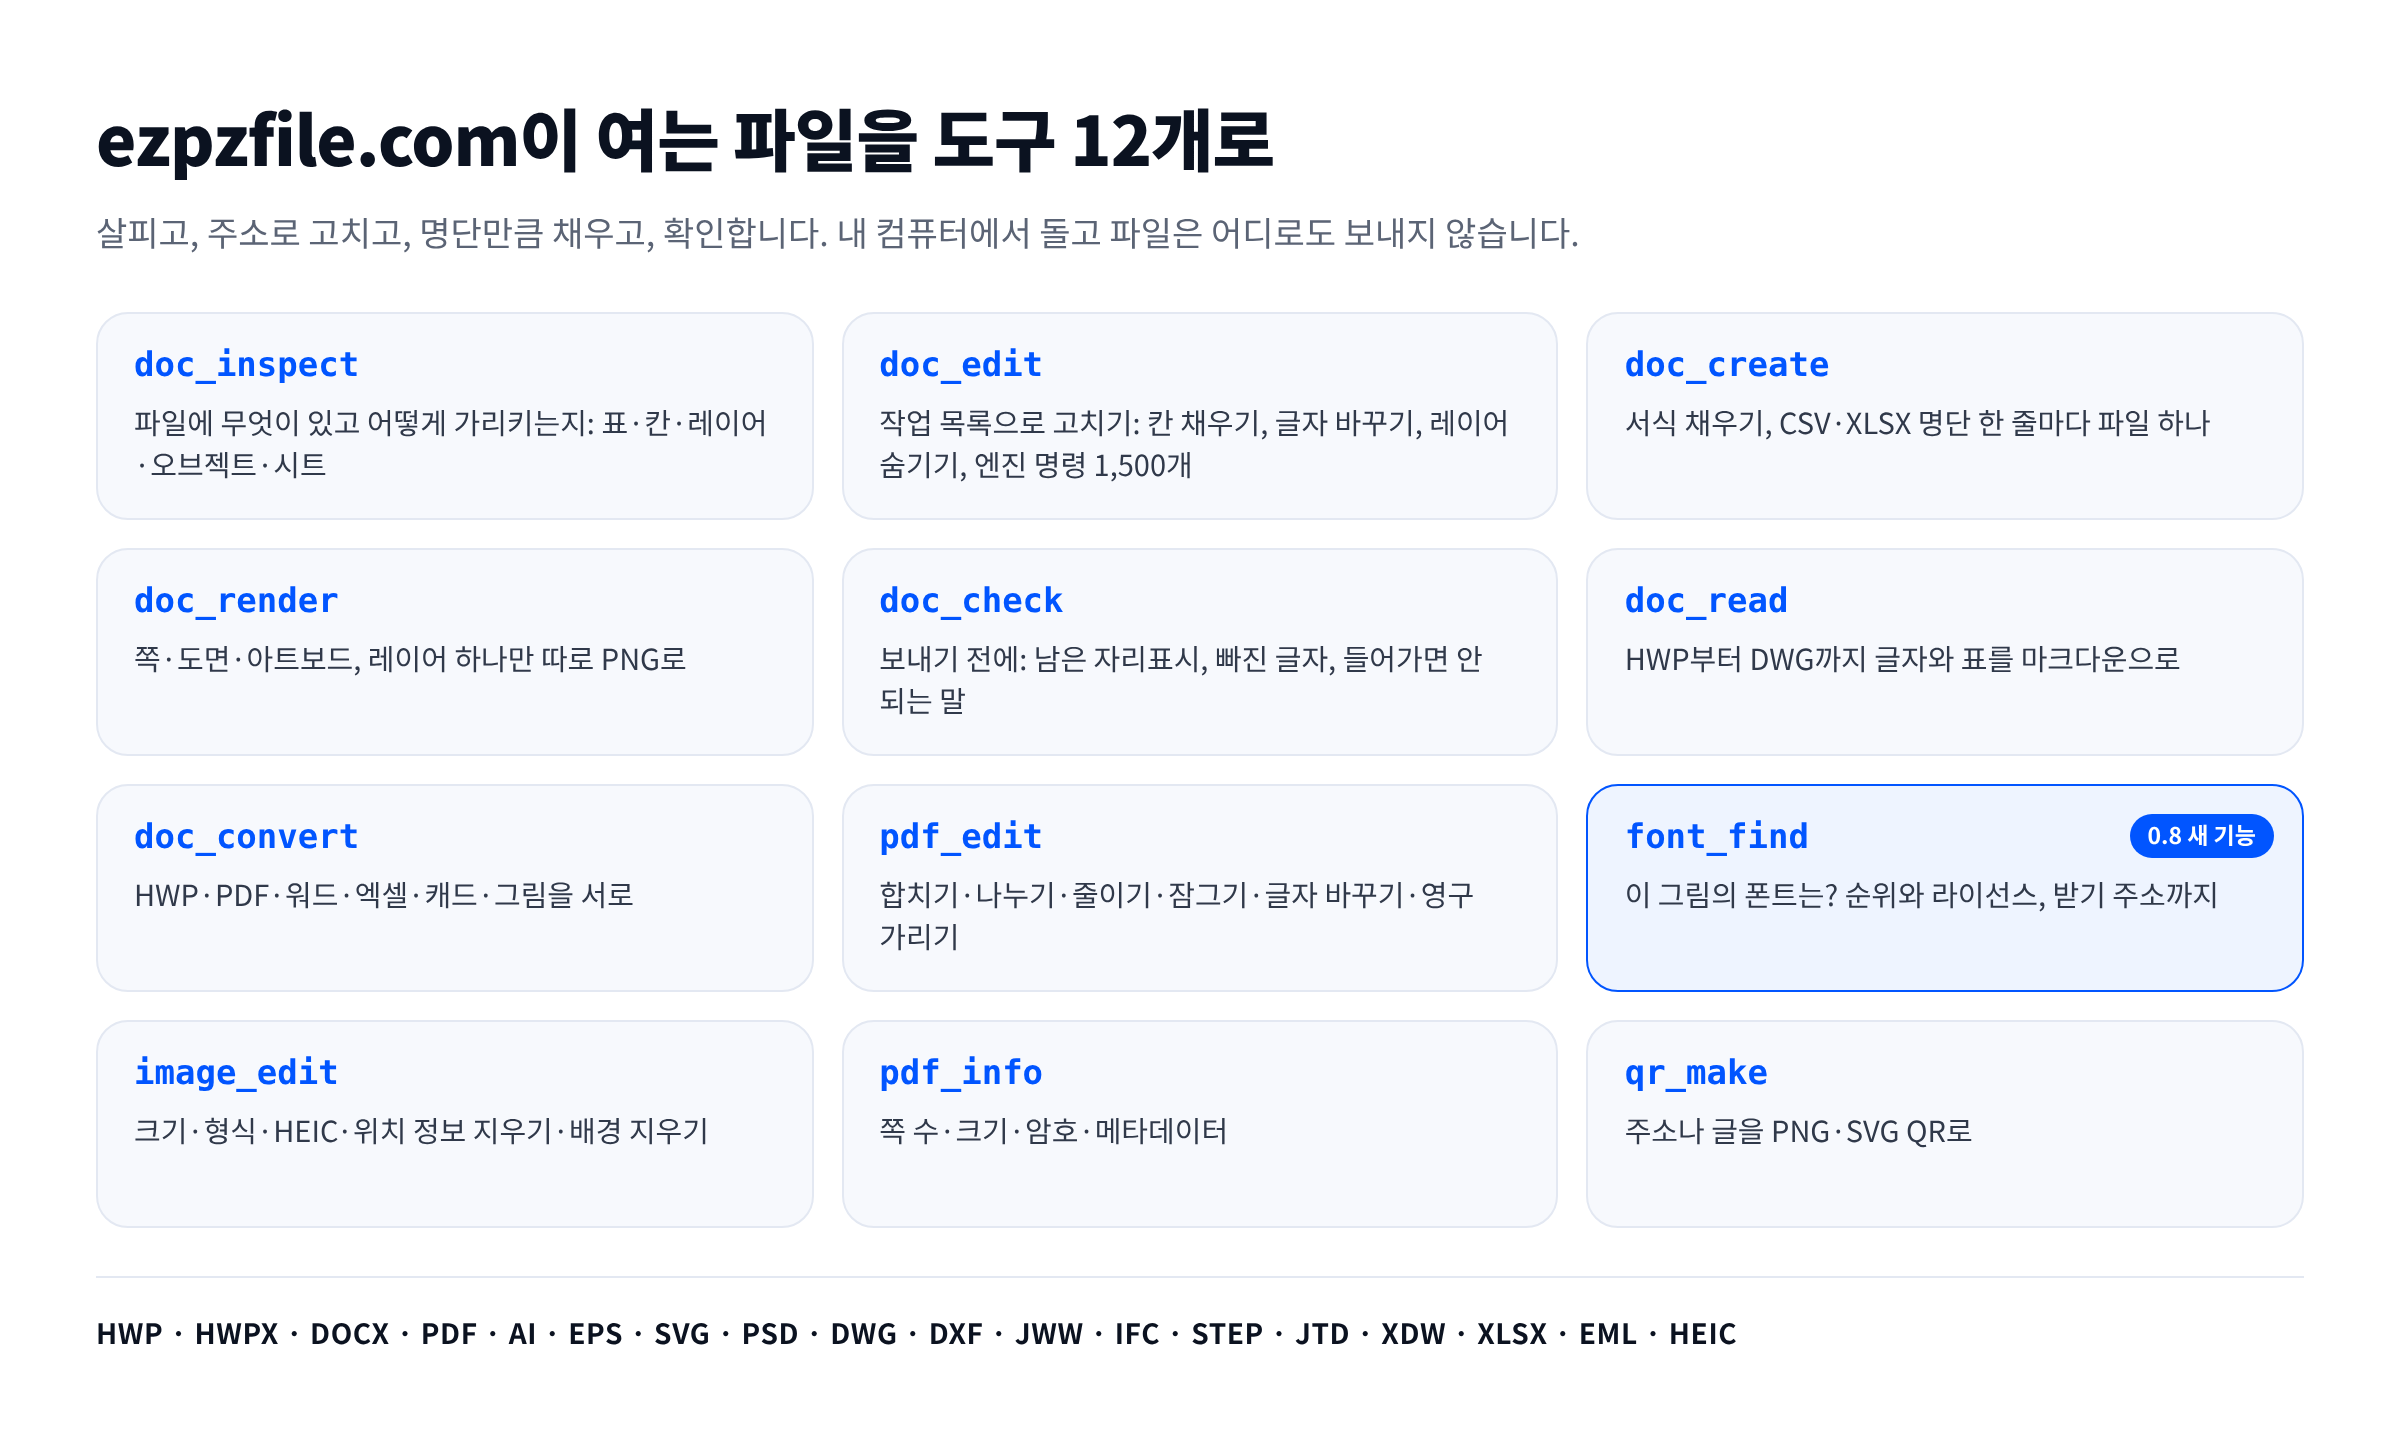
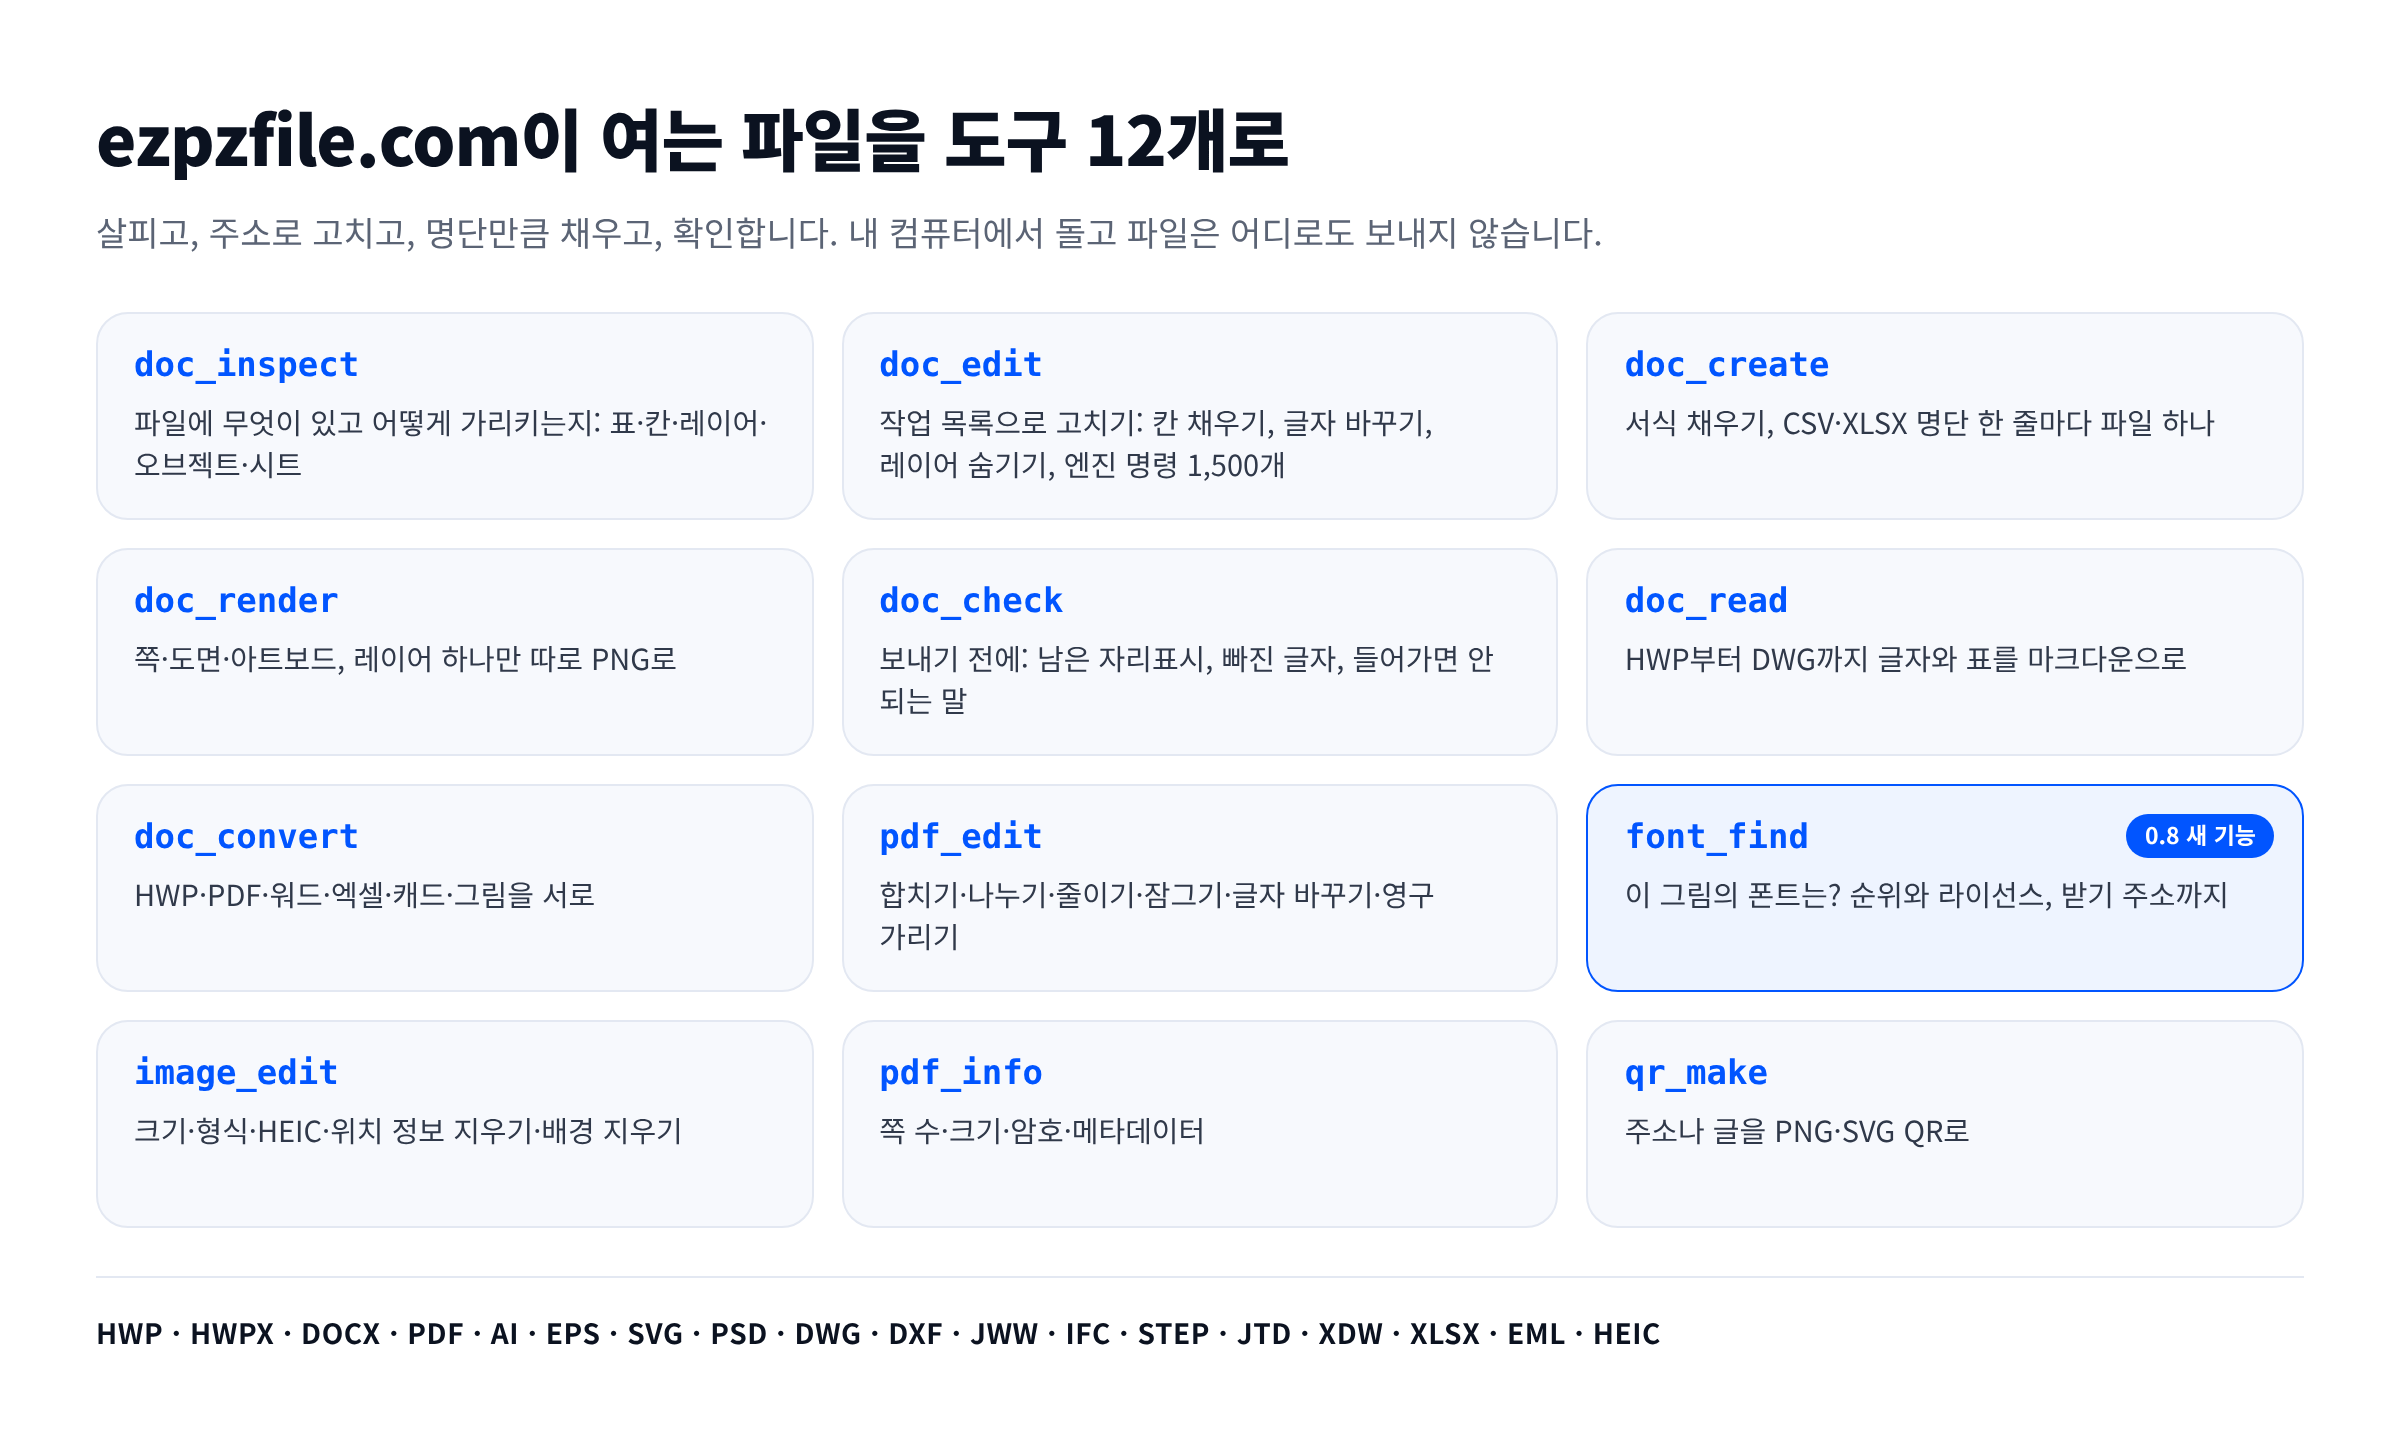
README in Japanese too
Claude-Session: https://claude.ai/code/session_014qcgeBg5AazadfLEhogDHo

diff --git a/README.ja.md b/README.ja.md
@@ -1,0 +1,113 @@
+<p align="center">
+  <img src="mcp/docs/icon.png" alt="EZPZ File MCP" width="128">
+</p>
+<h1 align="center">ezpzfile-mcp</h1>
+<p align="center"><a href="README.md">English</a> · <a href="README.ko.md">한국어</a> · <b>日本語</b></p>
+<p align="center">
+  <a href="https://ezpzfile.com/ja/mcp"><img src="mcp/docs/guide-ja.svg" alt="導入ガイドを見る" height="56"></a>
+</p>
+<p align="center">
+  <a href="https://www.npmjs.com/package/ezpzfile-mcp"><img src="https://img.shields.io/npm/v/ezpzfile-mcp?color=0155FF&label=npm" alt="npm"></a>
+  <img src="https://img.shields.io/badge/tools-12-0155FF" alt="12 tools">
+  <img src="https://img.shields.io/badge/node-%E2%89%A522.13-0155FF" alt="Node 22.13">
+  <a href="LICENSE"><img src="https://img.shields.io/badge/license-MIT-0155FF" alt="MIT"></a>
+</p>
+
+**AI エージェントのためのファイルツール: 文書の中身を調べ、番地で直し、名簿の分だけ埋め、結果を確かめます。**
+一太郎・DocuWorks を Windows なしで、Illustrator・Photoshop のファイルを Adobe なしで、DWG・Jw_cad を AutoCAD なしで、
+韓国の HWP・HWPX をハンコムオフィスなしで。DOCX・PDF・Excel・画像、フォント検索も。
+すべてお使いのコンピューターで動き、ファイルはどこにも送りません。
+
+```bash
+claude mcp add ezpzfile -- npx -y ezpzfile-mcp
+```
+
+<sub>バージョン 0.8.0 · Node 22.13 以上 · Claude Desktop、Cursor、VS Code は<a href="https://ezpzfile.com/ja/mcp">ガイド</a>を参照</sub>
+
+[![12 のツール](mcp/docs/tools-ja.png)](mcp/README.md#tools)
+
+## どれだけ節約できるか
+
+同じ 4 つのファイルを 2 つのセッションに置き、同じモデルに同じ文で作業を頼みました。片方はこのサーバーだけを使え、もう片方は専用ツールなしでシェルと Node を自由に使いました。
+
+| | ツールなし | ezpzfile-mcp あり |
+|---|---|---|
+| 費用 | $0.28 | **$0.13** |
+| 所要時間 | 9:06 | **0:39** |
+| 完了したタスク | 2 / 4 | **4 / 4** |
+| ツール呼び出し | 20 | **10** |
+| トークン | 510,607 | **184,605** |
+
+費用は 53%、時間は 93% 減りました。トークンと費用は概算ではなく、セッションがメッセージごとに記録した値の合計です。2026-09-12 に計測。ツールなしの側は韓国語の文書 2 つに使うライブラリを探すうちに時間を使い切り、2 つのタスクは始めることもできませんでした。この差は「少なくともこれだけ」と読んでください。
+
+## こんな人のために
+
+エージェントと同じやり方で実行した実際の作業です。`test/make-samples.py` が作るファイルで `node test/bench.mjs` を実行しました（Node 22.22.0, linux, 2 cores、2026-11-05）。「初回」には一度だけのダウンロード（デザインエンジン、フォント検索モデル、足りないフォント）が含まれます。
+
+| 誰が | 作業 | 初回 | 2 回目 | 結果 |
+| --- | --- | --- | --- | --- |
+| 事務（韓国） | HWP の表をすべて読む | 267 ms | 18 ms | 表を Markdown で、結合セルもそのまま |
+| 事務（韓国） | HWP の書式を埋めて PDF に、確認まで | 1.3 s | 388 ms | 3 回の呼び出し、差し込み欄の残りなし |
+| 営業 | DOCX の見積書テンプレートを埋める（分割された差し込み欄、品目行） | 374 ms | 348 ms | 1 回の呼び出し、1 行追加、残りなし |
+| 営業 | PDF デザインと名簿から見積書 100 枚 | 12.9 s | 6.7 s | 100 ファイル、1 枚 50 KB、確認済み |
+| デザイン | SVG/AI デザインと名簿から名刺 100 枚 | 18 ms | 11 ms | 100 ファイル |
+| デザイン | PSD のレイヤーを 1 つ隠して PNG に | 1.1 s | 1.0 s | 2 回の呼び出し、レイヤー 7 個、確認済み |
+| デザイン | この画像のフォントは？ | 6.0 s | 751 ms | 1 位 Nanum Myeongjo 92% |
+| デザイン | 入っていないフォントの PDF で名前を変える | 836 ms | 92 ms | 同じフォントを取得して使用、67 KB |
+| 個人情報 | PDF の氏名・電話・住所を墨消し、証明まで | 1.3 s | 914 ms | 2 回の呼び出し、取り出せる文字なし |
+| 建築 | CAD 図面: レイヤー、文字、ベクター PDF | 38 ms | 20 ms | 3 回の呼び出し、文字は文字のまま |
+
+- **日本・韓国の事務職:** 一太郎・DocuWorks・HWP・HWPX を読み、埋め、表のセル単位で直し、変換します。
+- **営業・総務:** DOCX・HWP・PDF のテンプレートから見積書・証明書・文書を、1 枚でも Excel 名簿の行ごとにでも作ります。
+- **デザイナー・マーケター:** AI・SVG・PSD をレイヤー単位で直し、名簿の全員分の名刺・ポスターを作り、参考画像のフォントを探します。
+- **法務・個人情報:** PDF から文字を本当に消す墨消しと、取り出せる文字がないことの確認まで。
+- **建築・設計:** DWG・DXF・Jw_cad・IFC・STEP を読み、文字が文字のままのベクター PDF に出力します。
+
+## MCP とスクリプト
+
+このサーバーなしでエージェントがやる方法、つまりよく使われる Python ライブラリでスクリプトを書き、同じファイルで動かした結果です。
+
+| 作業 | ezpzfile-mcp | エージェントが書くスクリプト |
+| --- | --- | --- |
+| DOCX 見積書テンプレートを埋める | 1 回、0.1 秒、残りなし | python-docx: Word が 2 つに分けた `{{customer}}` は埋まらない |
+| PDF の氏名・電話番号を墨消し | 1 回、1 秒、文字を削除、確認済み | pypdf + reportlab の黒い四角: 隠れて見えるが氏名はそのまま取り出せる |
+| PDF デザインと名簿から見積書 100 枚 | 1 回、7 秒、1 枚 50 KB | pypdf + reportlab の重ね書き: 位置は手で測り、`{{owner}}` が全ファイルの文字に残る |
+| HWP の表のセルを直す | 1 回、開き直して確認 | HWP の表を書ける公開ライブラリはない |
+| PSD のレイヤーを隠して PNG に | 2 回、0.9 秒 | psd-tools も得意（3.3 秒）。文字レイヤーの内容は変えられない |
+| DXF を PDF に | 1 回、16 ms、文字は文字のまま | ezdxf + matplotlib（1.2 秒）: 文字層なし。DWG はクローズドな ODA 変換ツールが先に必要 |
+| この画像のフォントは？ | 1 回、0.8 秒、順位とライセンス付き | 画像からフォントを見分ける公開ライブラリはない |
+
+## 0.8.0 の新機能
+
+- **`font_find`**: 画像や文書 1 ページの文字を、10 の文字体系・約 1 万のフォントと照らし合わせます。[ezpzfile.com のフォント検索](https://ezpzfile.com/ja/fonts)と同じ方法です。
+- **足りないフォントは名前で取得**: PDF テンプレートのフォントが入っておらず、無料の Google Fonts なら一度だけ取得してそのフォントで書きます。似た別のフォントには置き換えません。
+- **名簿 PDF が軽く**: 見積書 100 枚が 1 枚 757 KB から 50 KB に、43 秒から 7 秒に。
+
+すべての履歴: [Releases](https://github.com/ezpzfile/ezpzfile-mcp/releases)。
+
+## 構成
+
+| パス | 内容 |
+|---|---|
+| [`mcp/`](./mcp) | パッケージ: サーバー、ツール、テスト、ビルド。全ツールと引数は [`mcp/README.md`](./mcp/README.md)（英語） |
+| `src/lib/` | [ezpzfile.com](https://ezpzfile.com) と共有するコード: HWP、PDF、CAD、フォント検索 |
+| `engines/` | ベクター・PSD エンジンを WASI 向けにビルドするパッチ |
+| `public/vendor/` | HWP・JTD・XDW エンジン、libheif、同梱フォント（git にはなく npm パッケージに入っています） |
+
+```bash
+cd mcp
+npm install
+npm run build                            # mcp/dist/index.js, mcp/vendor/
+python3 test/make-samples.py /tmp/samples
+node test/protocol.mjs /tmp/samples      # 全ツール
+node test/scenarios.mjs /tmp/samples     # エージェントのようにつなげる作業
+node test/bench.mjs /tmp/samples         # 上の計測表
+```
+
+ネットワークは一度だけのダウンロードにしか使わず、何も送信しません: 背景除去モデル、デザインエンジン、フォント検索のモデルと一覧、PDF テンプレートが名前で指定する無料フォント。フォントの取得は `EZPZFILE_NO_FONT_DOWNLOAD=1` で止められます。
+
+## このリポジトリについて
+
+読み取り専用の書き出し版です。作業用のコピーはウェブサイトと一緒に非公開リポジトリにあり、このリポジトリはリリースのたびにそこから作り直します。プルリクエストより Issue でお知らせください。
+
+MIT ライセンス、[LICENSE](./LICENSE) を参照。同梱のエンジンとフォントはそれぞれのライセンスに従います。

diff --git a/README.ko.md b/README.ko.md
@@ -2,7 +2,7 @@
   <img src="mcp/docs/icon.png" alt="EZPZ File MCP" width="128">
 </p>
 <h1 align="center">ezpzfile-mcp</h1>
-<p align="center"><a href="README.md">English</a> · <b>한국어</b></p>
+<p align="center"><a href="README.md">English</a> · <b>한국어</b> · <a href="README.ja.md">日本語</a></p>
 <p align="center">
   <a href="https://ezpzfile.com/ko/mcp"><img src="mcp/docs/guide-ko.svg" alt="설치 안내 보기" height="56"></a>
 </p>
@@ -77,9 +77,9 @@ claude mcp add ezpzfile -- npx -y ezpzfile-mcp
 | DXF를 PDF로 | 1번 호출, 16ms, 글자는 글자 그대로 | ezdxf + matplotlib(1.2초): 글자층 없음. DWG는 닫힌 ODA 변환기가 먼저 필요 |
 | 이 그림의 폰트는? | 1번 호출, 0.8초, 순위와 라이선스 | 그림에서 폰트를 알아보는 공개 라이브러리가 없음 |
 
-## 새로 생긴 것: 0.8.0
+## 0.8.0에서 새로 생긴 것
 
-- **`font_find`**: 그림이나 문서 한 쪽의 글자를 10개 문자권 약 1만 개 폰트와 견줍니다. [ezpzfile.com/fonts](https://ezpzfile.com/ko/fonts)와 같은 방식입니다.
+- **`font_find`**: 그림이나 문서 한 쪽의 글자를 10개 문자권 약 1만 개 폰트와 견줍니다. [ezpzfile.com 폰트 찾기](https://ezpzfile.com/ko/fonts)와 같은 방식입니다.
 - **없는 폰트는 이름으로 받아 씀**: PDF 서식의 폰트가 컴퓨터에 없고 무료 구글 폰트라면 한 번 받아 그 폰트로 씁니다. 비슷한 다른 폰트로 바뀌지 않습니다.
 - **명단 PDF가 가벼워짐**: 견적서 100장이 한 장 757KB에서 50KB로, 43초에서 7초로.
 
@@ -89,7 +89,7 @@ claude mcp add ezpzfile -- npx -y ezpzfile-mcp
 
 | 경로 | 무엇 |
 |---|---|
-| [`mcp/`](./mcp) | 패키지: 서버, 도구, 시험, 빌드. 도구와 인자 전부는 [`mcp/README.md`](./mcp/README.md) |
+| [`mcp/`](./mcp) | 패키지: 서버, 도구, 시험, 빌드. 도구와 인자 전부는 [`mcp/README.md`](./mcp/README.md)(영어) |
 | `src/lib/` | [ezpzfile.com](https://ezpzfile.com)과 함께 쓰는 코드: HWP, PDF, 캐드, 폰트 찾기 |
 | `engines/` | 벡터·PSD 엔진을 WASI로 빌드하는 패치 |
 | `public/vendor/` | HWP·JTD·XDW 엔진, libheif, 함께 싣는 글꼴(git에는 없고 npm 패키지에 들어 있음) |

diff --git a/README.md b/README.md
@@ -2,7 +2,7 @@
   <img src="mcp/docs/icon.png" alt="EZPZ File MCP" width="128">
 </p>
 <h1 align="center">ezpzfile-mcp</h1>
-<p align="center"><b>English</b> · <a href="README.ko.md">한국어</a></p>
+<p align="center"><b>English</b> · <a href="README.ko.md">한국어</a> · <a href="README.ja.md">日本語</a></p>
 <p align="center">
   <a href="https://ezpzfile.com/mcp"><img src="mcp/docs/guide-en.svg" alt="Read the guide" height="56"></a>
 </p>
@@ -89,7 +89,7 @@ All releases: [Releases](https://github.com/ezpzfile/ezpzfile-mcp/releases).
 
 | Path | What it is |
 |---|---|
-| [`mcp/`](./mcp) | The package: server, tools, tests, build. [`mcp/README.md`](./mcp/README.md) has every tool and argument |
+| [`mcp/`](./mcp) | The package: server, tools, tests, build. [`mcp/README.md`](./mcp/README.md) has every tool and argument (English) |
 | `src/lib/` | Code shared with [ezpzfile.com](https://ezpzfile.com): HWP, PDF, CAD, font finder |
 | `engines/` | Patches that build the vector and PSD engines for WASI |
 | `public/vendor/` | The HWP, JTD and XDW engines, libheif and bundled fonts (kept out of git; they ship inside the npm package) |
